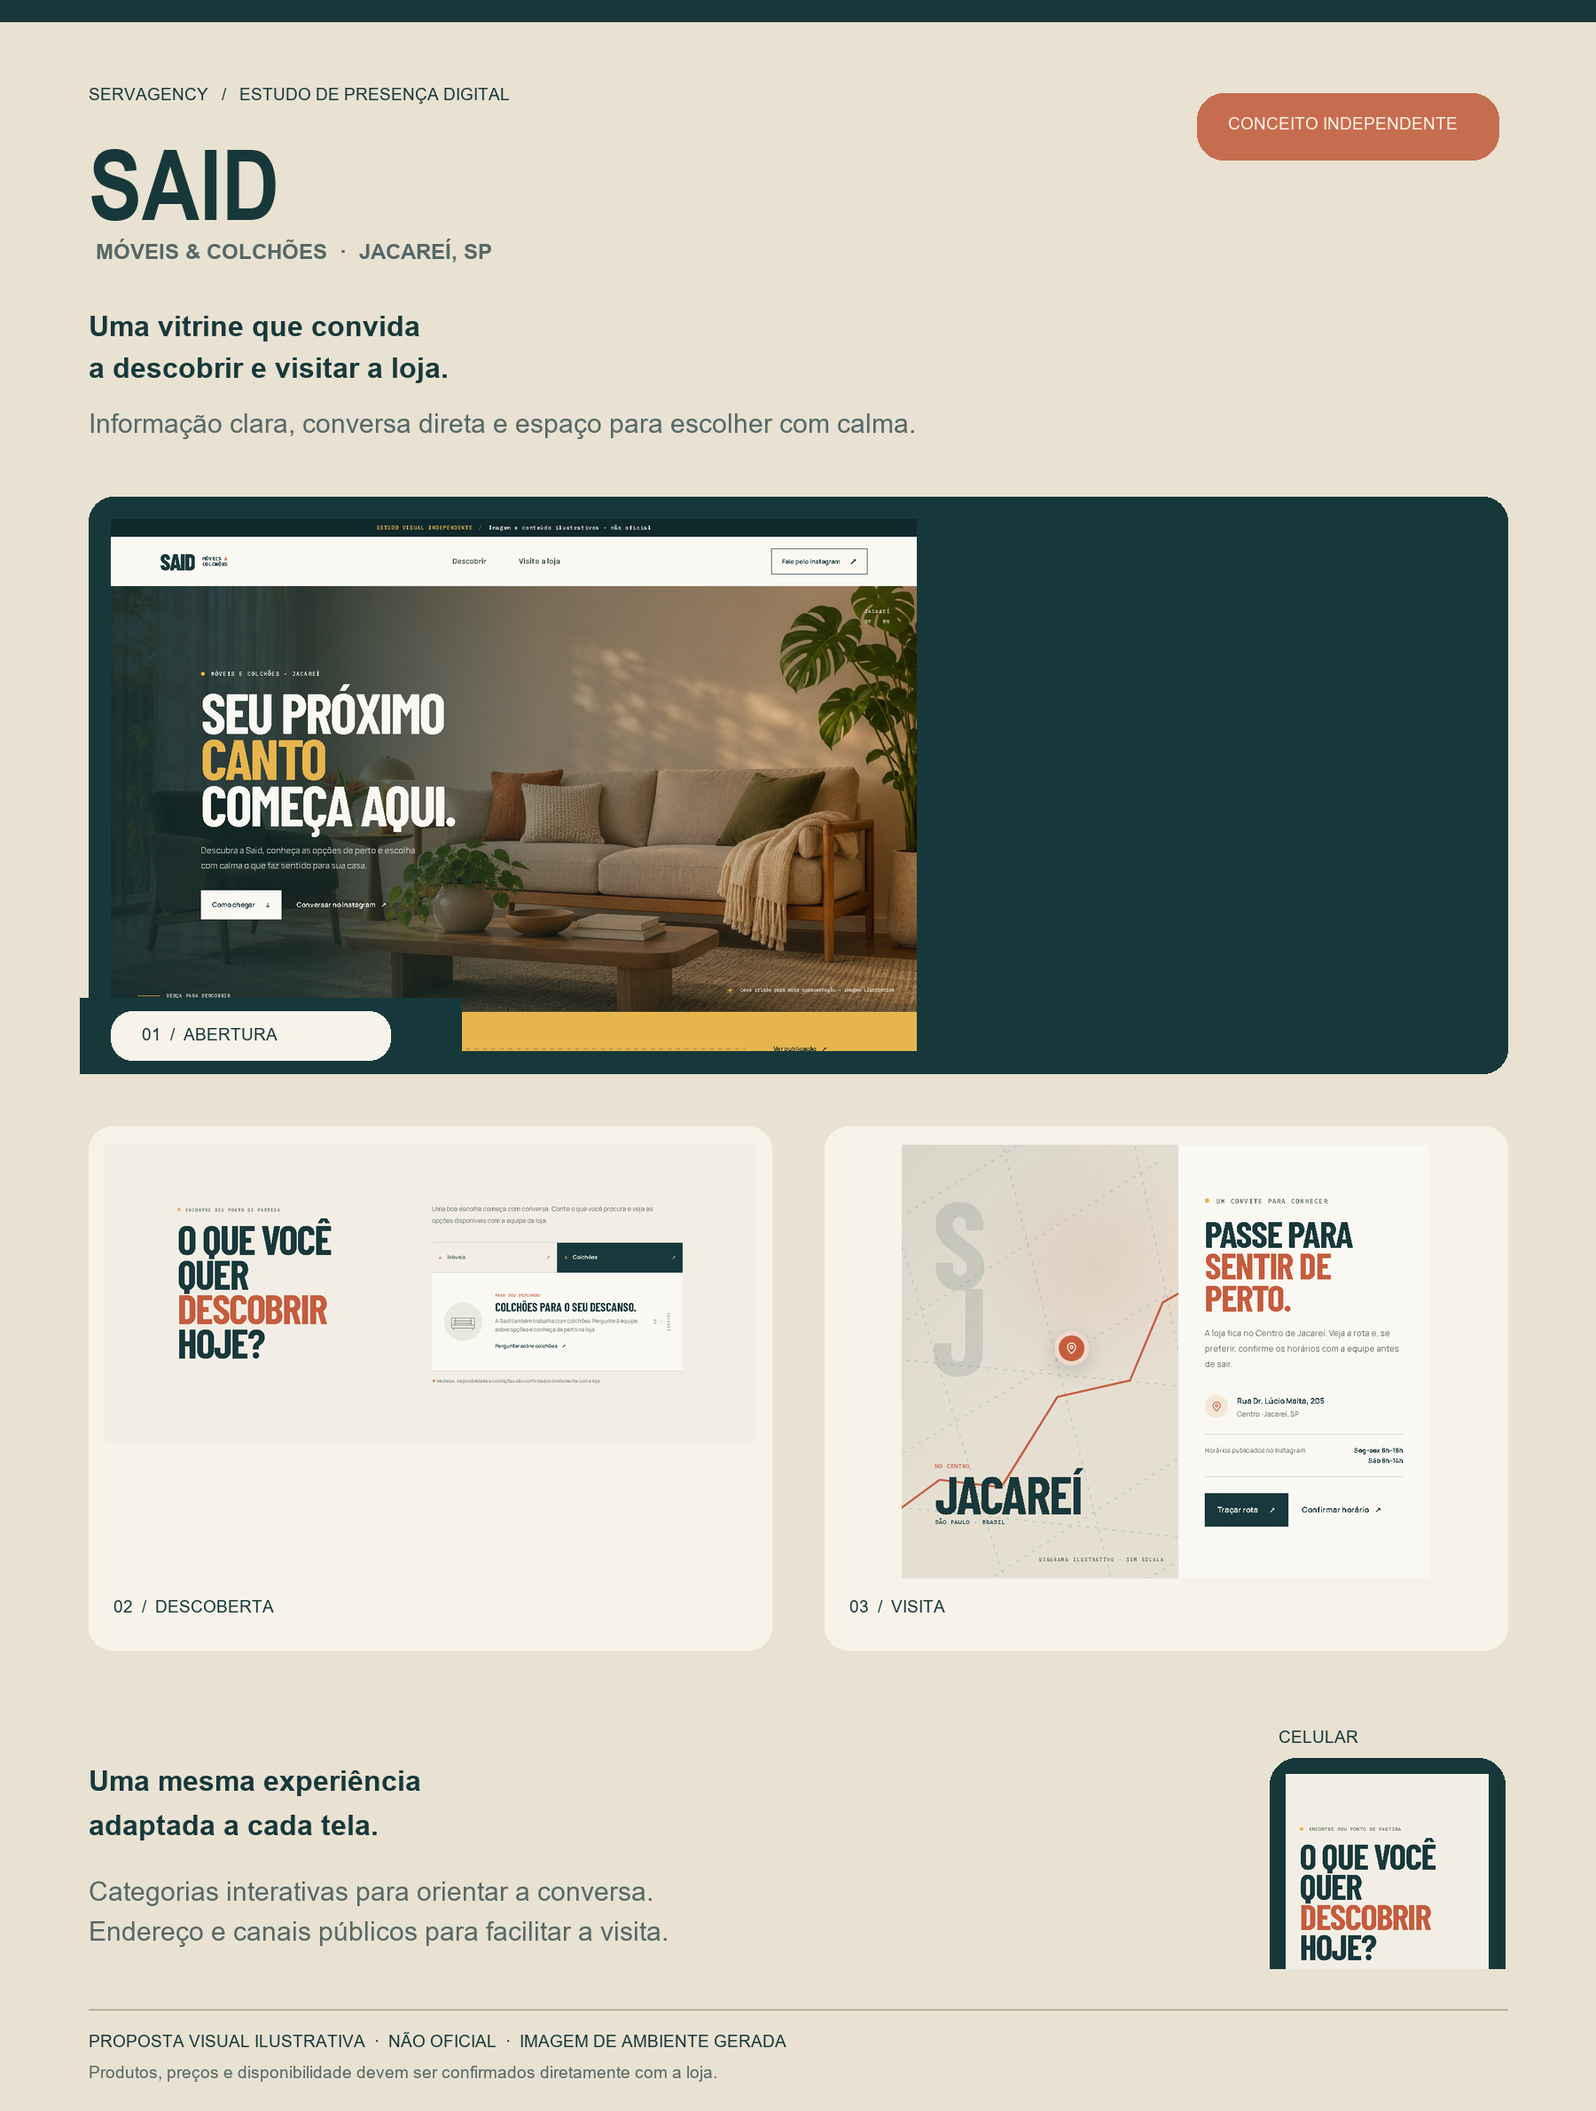
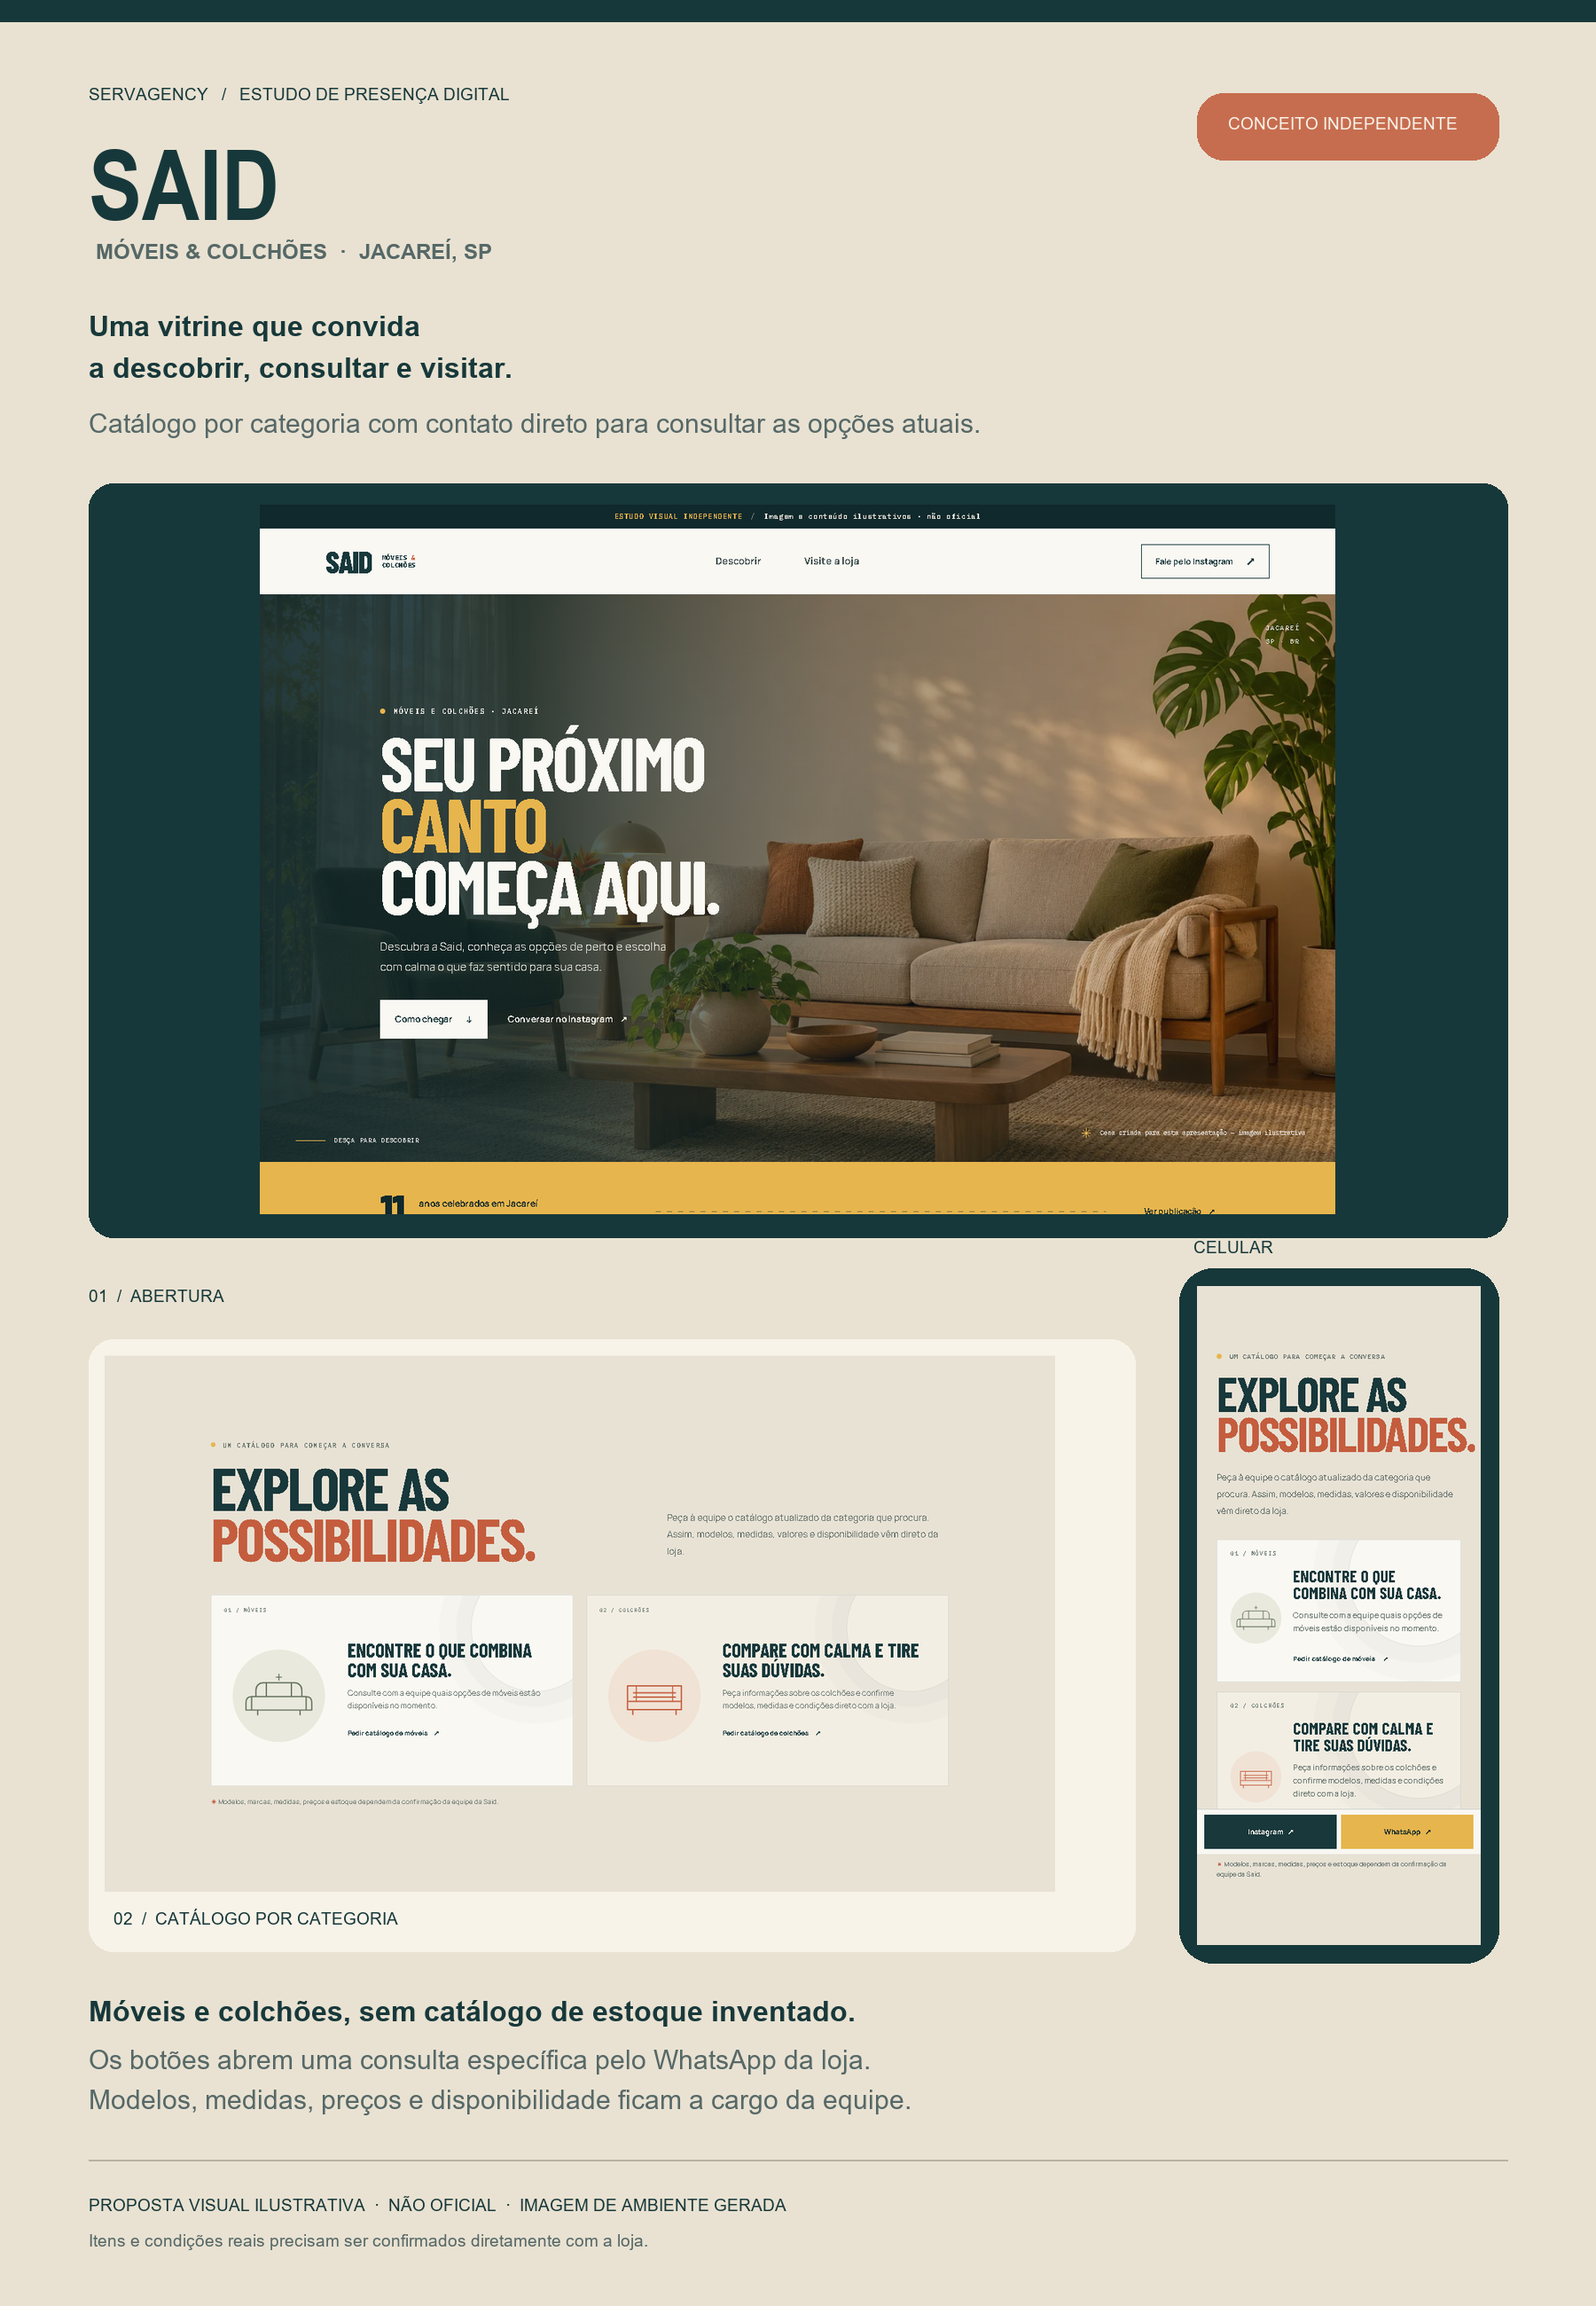
Add category-based catalog inquiry section

diff --git a/styles.css b/styles.css
@@ -106,6 +106,26 @@ a:focus-visible, button:focus-visible { outline: 3px solid var(--sun); outline-o
 .availability-note { margin: .85rem 0 0; color: #758079; font-size: .62rem !important; line-height: 1.5 !important; }
 .availability-note span { color: var(--clay); }
 
+.catalog { background: #e8e2d5; }
+.catalog-heading { display: grid; grid-template-columns: 1fr minmax(280px, .7fr); align-items: end; gap: 5rem; margin-bottom: 3rem; }
+.catalog-heading h2 { margin: 0; color: var(--petrol); font: 700 clamp(4rem, 6.3vw, 6.5rem)/.84 var(--display); letter-spacing: -.035em; text-transform: uppercase; }
+.catalog-heading h2 em { color: var(--clay); font-style: normal; }
+.catalog-heading > p { max-width: 480px; margin: 0 0 .3rem; color: #5e6b65; font-size: .87rem; line-height: 1.85; }
+.catalog-grid { display: grid; grid-template-columns: repeat(2, minmax(0, 1fr)); gap: 1.2rem; }
+.catalog-card { min-height: 290px; padding: 1.7rem 2rem; position: relative; overflow: hidden; display: grid; grid-template-columns: 145px 1fr; align-items: center; gap: 1.8rem; background: var(--paper-light); border: 1px solid rgba(24,56,59,.12); }
+.catalog-card::after { position: absolute; right: -2.5rem; top: -3rem; width: 12rem; height: 12rem; content: ""; border: 1px solid rgba(24,56,59,.11); border-radius: 50%; box-shadow: 0 0 0 1.4rem rgba(24,56,59,.025), 0 0 0 3rem rgba(24,56,59,.02); pointer-events: none; }
+.catalog-card-mattress { background: #f3eee3; }
+.catalog-index { position: absolute; z-index: 1; top: 1rem; left: 1.2rem; color: #728078; font: 500 .52rem/1.4 var(--mono); letter-spacing: .1em; }
+.catalog-illustration { width: 140px; height: 140px; margin-top: 1rem; display: grid; place-items: center; color: var(--leaf); background: #e9e9dd; border-radius: 50%; }
+.catalog-card-mattress .catalog-illustration { color: var(--clay); background: #f0e2d4; }
+.catalog-illustration svg { width: 118px; height: 100px; }
+.catalog-card-copy { position: relative; z-index: 1; }
+.catalog-card-copy h3 { max-width: 340px; margin: 0 0 .65rem; color: var(--petrol); font: 700 1.85rem/1 var(--display); text-transform: uppercase; }
+.catalog-card-copy p { max-width: 350px; margin: 0 0 1.05rem; color: #68756e; font-size: .72rem; line-height: 1.7; }
+.catalog-card-copy .text-link { font-size: .65rem; }
+.catalog-note { margin: 1rem 0 0; color: #758079; font-size: .62rem; }
+.catalog-note span { color: var(--clay); }
+
 .visit { min-height: 650px; display: grid; grid-template-columns: 1.05fr .95fr; background: var(--paper-light); }
 .visit-map { min-height: 650px; position: relative; overflow: hidden; isolation: isolate; display: grid; place-items: center; background: #e5dfd2; }
 .visit-map::before { position: absolute; inset: 0; z-index: -1; content: ""; background: linear-gradient(135deg, rgba(24,56,59,.06), transparent 52%), radial-gradient(circle at 70% 28%, rgba(196,93,62,.10), transparent 35%); }
@@ -208,6 +228,18 @@ a:focus-visible, button:focus-visible { outline: 3px solid var(--sun); outline-o
   .panel-copy > p:not(.panel-kicker) { font-size: .68rem; }
   .panel-stamp { grid-column: 2; grid-row: 1; }
   .availability-note { font-size: .57rem !important; }
+  .catalog-heading { display: block; margin-bottom: 1.7rem; }
+  .catalog-heading h2 { font-size: clamp(4.1rem, 14.2vw, 5.8rem); }
+  .catalog-heading > p { margin-top: 1.4rem; font-size: .78rem; }
+  .catalog-grid { grid-template-columns: 1fr; gap: .8rem; }
+  .catalog-card { min-height: 0; padding: 2.4rem 1.1rem 1.3rem; grid-template-columns: 72px 1fr; gap: .9rem; }
+  .catalog-index { top: .8rem; left: 1.1rem; font-size: .48rem; }
+  .catalog-illustration { width: 70px; height: 70px; margin-top: .2rem; }
+  .catalog-illustration svg { width: 62px; height: 55px; }
+  .catalog-card-copy h3 { font-size: 1.45rem; }
+  .catalog-card-copy p { font-size: .66rem; }
+  .catalog-card-copy .text-link { font-size: .59rem; }
+  .catalog-note { font-size: .55rem; }
   .visit { display: flex; flex-direction: column; }
   .visit-map { min-height: 360px; }
   .map-stamp { font-size: 8rem; }

diff --git a/index.html b/index.html
@@ -31,6 +31,7 @@
       </a>
       <nav class="main-nav" aria-label="Navegação principal">
         <a href="#descobrir">Descobrir</a>
+        <a href="#catalogo">Catálogo</a>
         <a href="#visite">Visite a loja</a>
       </nav>
       <a class="header-cta" href="https://www.instagram.com/said.moveis/" aria-label="Abrir Instagram da Said">
@@ -93,6 +94,41 @@
           </div>
           <p class="availability-note"><span aria-hidden="true">✳</span> Modelos, disponibilidade e condições são confirmados diretamente com a loja.</p>
         </div>
+      </section>
+
+      <section class="catalog section-shell" id="catalogo" aria-labelledby="catalog-title">
+        <div class="catalog-heading">
+          <div>
+            <p class="eyebrow eyebrow-dark"><span class="eyebrow-dot" aria-hidden="true"></span> Um catálogo para começar a conversa</p>
+            <h2 id="catalog-title">Explore as<br /><em>possibilidades.</em></h2>
+          </div>
+          <p>Peça à equipe o catálogo atualizado da categoria que procura. Assim, modelos, medidas, valores e disponibilidade vêm direto da loja.</p>
+        </div>
+        <div class="catalog-grid">
+          <article class="catalog-card catalog-card-furniture">
+            <span class="catalog-index">01 / MÓVEIS</span>
+            <div class="catalog-illustration" aria-hidden="true">
+              <svg viewBox="0 0 180 130" fill="none"><path d="M37 67V52c0-10 7-17 17-17h72c10 0 17 7 17 17v15M27 67h126v31H27V67Zm14 31v11m98-11v11M27 67c-8 0-13 5-13 14v17h13m126-31c8 0 13 5 13 14v17h-13M61 36v31m58-31v31" stroke="currentColor" stroke-width="3" stroke-linecap="round" stroke-linejoin="round"/><path d="M90 15v14m-6-7h12" stroke="currentColor" stroke-width="2.4" stroke-linecap="round"/></svg>
+            </div>
+            <div class="catalog-card-copy">
+              <h3>Encontre o que combina com sua casa.</h3>
+              <p>Consulte com a equipe quais opções de móveis estão disponíveis no momento.</p>
+              <a class="text-link text-link-dark" href="https://wa.me/5512981905968?text=Ol%C3%A1%21%20Voc%C3%AAs%20podem%20me%20enviar%20o%20cat%C3%A1logo%20atualizado%20de%20m%C3%B3veis%3F">Pedir catálogo de móveis <span aria-hidden="true">↗</span></a>
+            </div>
+          </article>
+          <article class="catalog-card catalog-card-mattress">
+            <span class="catalog-index">02 / COLCHÕES</span>
+            <div class="catalog-illustration" aria-hidden="true">
+              <svg viewBox="0 0 180 130" fill="none"><path d="M28 42h124v55H28V42Zm0 36h124M40 97v11m100-11v11M42 58h96M42 68h96" stroke="currentColor" stroke-width="3" stroke-linecap="round" stroke-linejoin="round"/><path d="M48 42v36m84-36v36" stroke="currentColor" stroke-width="2.4" stroke-linecap="round"/></svg>
+            </div>
+            <div class="catalog-card-copy">
+              <h3>Compare com calma e tire suas dúvidas.</h3>
+              <p>Peça informações sobre os colchões e confirme modelos, medidas e condições direto com a loja.</p>
+              <a class="text-link text-link-dark" href="https://wa.me/5512981905968?text=Ol%C3%A1%21%20Voc%C3%AAs%20podem%20me%20enviar%20o%20cat%C3%A1logo%20atualizado%20de%20colch%C3%B5es%3F">Pedir catálogo de colchões <span aria-hidden="true">↗</span></a>
+            </div>
+          </article>
+        </div>
+        <p class="catalog-note"><span aria-hidden="true">✳</span> Modelos, marcas, medidas, preços e estoque dependem da confirmação da equipe da Said.</p>
       </section>
 
       <section class="visit" id="visite" aria-labelledby="visit-title">

diff --git a/README.md b/README.md
@@ -13,3 +13,8 @@ Vitrine demonstrativa mobile-first para apresentar uma possibilidade de presenç
 ## Transparência
 
 Conceito independente da ServAgency, não oficial e ainda não aprovado pela loja. Não há preço, modelo, condição, disponibilidade ou política comercial inventados. Consulte `ASSET_CREDITS.md`.
+
+## Área de catálogo
+
+A proposta apresenta entradas para móveis e colchões com consulta direta à equipe pelo WhatsApp. Como a loja ainda não forneceu uma lista verificada de produtos, modelos, imagens, medidas, preços ou estoque, o conceito não inventa itens: cada categoria convida a pedir as informações atualizadas.
+
